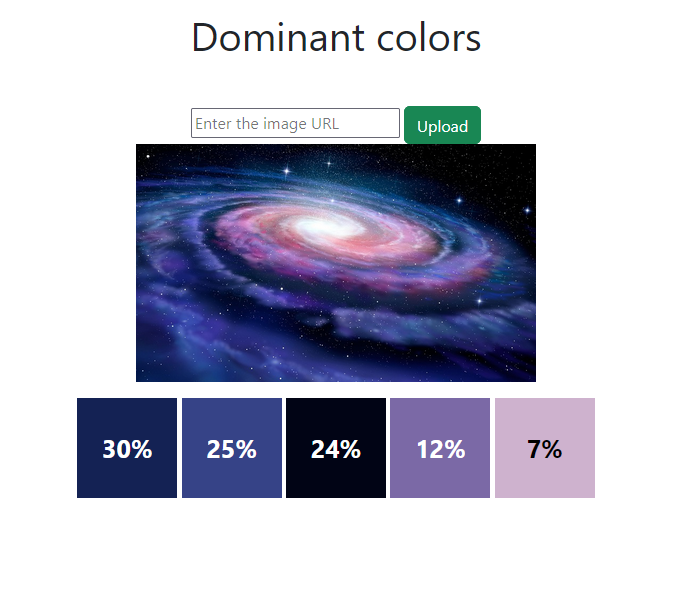
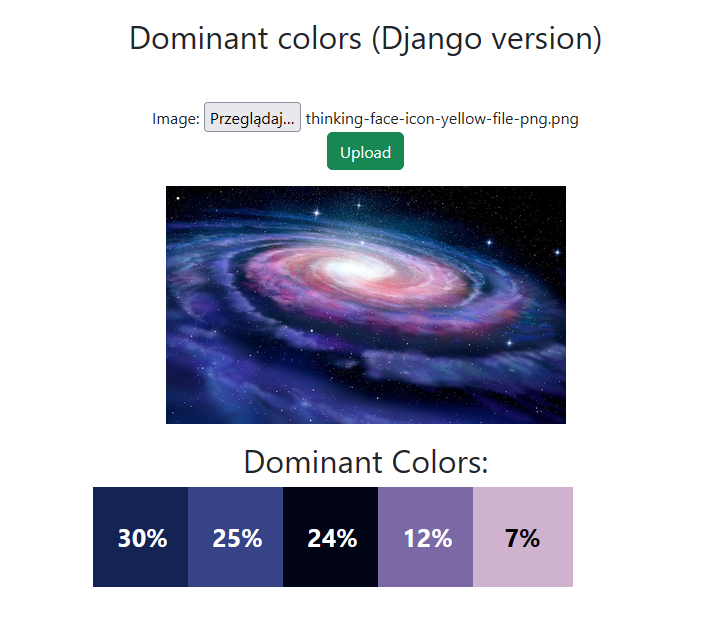
add examples/show image

diff --git a/explorer/templates/index.html b/explorer/templates/index.html
@@ -31,7 +31,7 @@
     <div class="container">
         <div class="row">
             <div class="col-6 mx-auto mt-5 text-center">
-                <h1 class="mb-5">Dominant colors (Django version)</h1>
+                <h2 class="mb-5">Dominant colors (Django version)</h2>
                 <form method="POST" action="/" enctype="multipart/form-data">
                     {% csrf_token %}
                     <div class="form-group">
@@ -41,13 +41,11 @@
                     <button type="submit" class="btn btn-success">Upload</button>
                 </form>
                 
-                {% if image_url %}
                 <div class="row justify-content-center mt-3">
                     <div class="col-auto">
                         <img src="{{ image_filepath }}" style="width: 400px;">
                     </div>
                 </div>
-                {% endif %}
                 <div class="row justify-content-center mt-3">
                     <div class="col-auto">
                         <h2>Dominant Colors:</h2>

diff --git a/explorer/utils.py b/explorer/utils.py
@@ -24,40 +24,43 @@ def save_image_from_url(image_url):
     return filepath
 
 def get_dominant_colors(image_path, num_colors):
-    image = Image.open(image_path)
-    image = image.convert("RGB")
+    if image_path:
+        image = Image.open(image_path)
+        image = image.convert("RGB")
 
-    image_array = np.array(image)
+        image_array = np.array(image)
 
-    flattened_array = image_array.reshape(-1, 3)
+        flattened_array = image_array.reshape(-1, 3)
 
-    # Wykorzystanie algorytmu k-means do grupowania pikseli
-    kmeans = KMeans(n_clusters=num_colors, n_init=10)
-    kmeans.fit(flattened_array)
+        # Wykorzystanie algorytmu k-means do grupowania pikseli
+        kmeans = KMeans(n_clusters=num_colors, n_init=10)
+        kmeans.fit(flattened_array)
 
-    # Uzyskanie etykiet klastrów
-    labels = kmeans.labels_
+        # Uzyskanie etykiet klastrów
+        labels = kmeans.labels_
 
-    # Zliczenie wystąpień etykiet
-    label_counts = Counter(labels)
+        # Zliczenie wystąpień etykiet
+        label_counts = Counter(labels)
 
-    # Sortowanie etykiet według liczby wystąpień
-    sorted_labels = sorted(label_counts, key=lambda x: label_counts[x], reverse=True)
+        # Sortowanie etykiet według liczby wystąpień
+        sorted_labels = sorted(label_counts, key=lambda x: label_counts[x], reverse=True)
 
-    # Uzyskanie centrum klastrów
-    cluster_centers = kmeans.cluster_centers_
+        # Uzyskanie centrum klastrów
+        cluster_centers = kmeans.cluster_centers_
 
-    # Obliczenie udziału procentowego dla każdego koloru
-    total_pixels = flattened_array.shape[0]
-    colors_percentages = [(label_counts[i] / total_pixels) * 100 for i in sorted_labels]
+        # Obliczenie udziału procentowego dla każdego koloru
+        total_pixels = flattened_array.shape[0]
+        colors_percentages = [(label_counts[i] / total_pixels) * 100 for i in sorted_labels]
 
-    # Uzyskanie dominujących kolorów
-    dominant_colors = [cluster_centers[i] for i in sorted_labels]
+        # Uzyskanie dominujących kolorów
+        dominant_colors = [cluster_centers[i] for i in sorted_labels]
 
-    # Konwersja wartości kolorów do typu całkowitoliczbowego
-    dominant_colors = [tuple(map(int, color)) for color in dominant_colors]
+        # Konwersja wartości kolorów do typu całkowitoliczbowego
+        dominant_colors = [tuple(map(int, color)) for color in dominant_colors]
 
-    # Zwrócenie listy dominujących kolorów wraz z ich udziałem procentowym
-    result = [(color, int(percentage)) for color, percentage in zip(dominant_colors, colors_percentages)]
-    return result[:5]
+        # Zwrócenie listy dominujących kolorów wraz z ich udziałem procentowym
+        result = [(color, int(percentage)) for color, percentage in zip(dominant_colors, colors_percentages)]
+        return result[:5]
+    else:
+        return []
 

diff --git a/explorer/views.py b/explorer/views.py
@@ -17,6 +17,9 @@ def index(request, folder_id=None):
 
 
 def display_image(request):
+    dominant_colors_with_lightness = []
+    uploaded_image = None
+    image_filepath = None
 
     if request.method == 'POST':
         form = ImageUploadForm(request.POST, request.FILES)
@@ -29,14 +32,11 @@ def display_image(request):
                     destination.write(chunk)
 
             num_colors = 5
-            dominant_colors = get_dominant_colors(image_filepath, num_colors)
+            dominant_colors = get_dominant_colors(uploaded_image, num_colors)
             dominant_colors_with_lightness = [(color, int(percentage), is_color_light(color)) for color, percentage in dominant_colors]
-
-            return render(request, 'index.html', {'image_url': image_filepath, 'dominant_colors': dominant_colors_with_lightness})
+            #print("Image URL:", uploaded_image)
+            #print("Image filepath:", image_filepath)
     else:
         form = ImageUploadForm()
 
-    return render(request, 'index.html', {'form': form, 'image_url': uploaded_image})
-
-
-
+    return render(request, 'index.html', {'image_filepath': image_filepath, 'dominant_colors': dominant_colors_with_lightness, 'form': form})

diff --git a/explorer/urls.py b/explorer/urls.py
@@ -16,7 +16,12 @@ Including another URLconf
 """
 from django.urls import path
 from . import views
+from django.conf import settings
+from django.conf.urls.static import static
 
 urlpatterns = [
     path('', views.display_image, name='display_image'),
 ]
+
+if settings.DEBUG:
+    urlpatterns += static(settings.MEDIA_URL, document_root=settings.MEDIA_ROOT)
